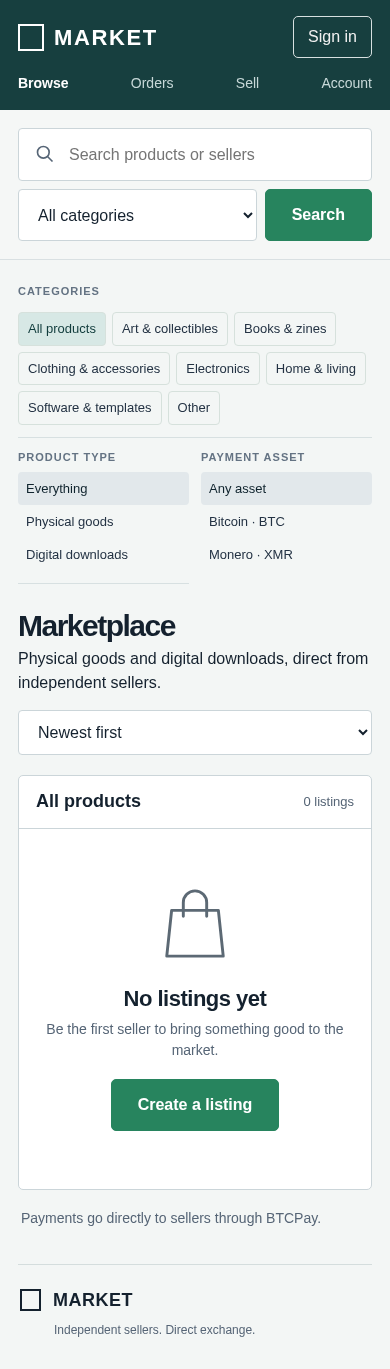
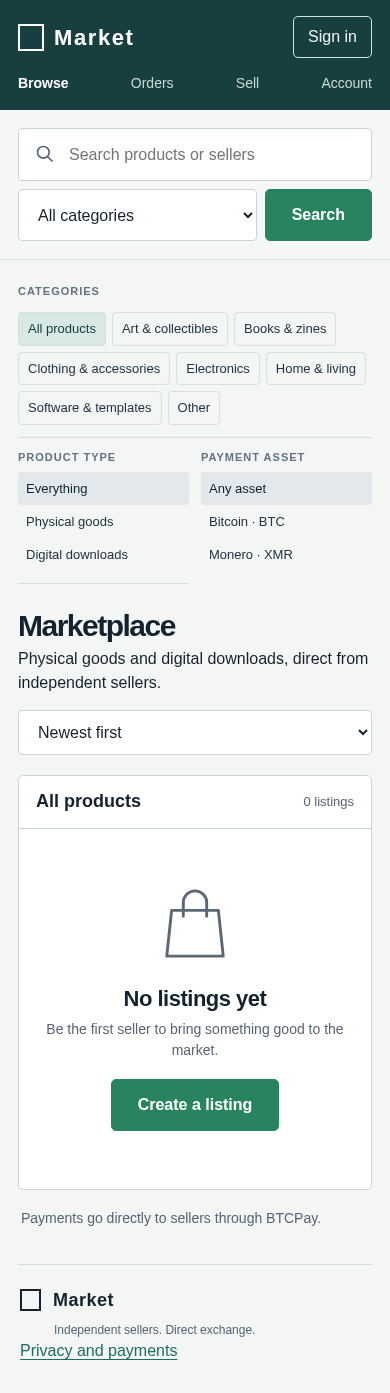
Verify final Market deployment over Tor and refresh screenshots

diff --git a/docs/VERIFICATION.md b/docs/VERIFICATION.md
@@ -1,33 +1,33 @@
 # Verification record
 
-Checks span September 16 and 17, 2026, Pacific time.
-
-The latest source adds private field encryption, invoice attempt recovery, the privacy page and Market branding. After workspace permissions changed, Docker access was denied. Those final changes are therefore not yet installed in the running onion containers. Run `Start Marketplace.cmd` locally to rebuild them. Saved browser images show the earlier deployed catalog, before the casing and privacy footer changes.
+Verified September 17, 2026, Pacific time.
 
 ## Automated checks
 
-`pnpm test`: 12 passing tests. Integration uses real Express endpoints, SQLite, authentication, uploads, moderation, orders, stock reservation, exact amounts, messaging, refund recording, reviews and restart persistence. Strangers and unrelated administrators cannot access orders; unpaid orders cannot download products. ETH and USDT are rejected.
+`pnpm test`: all 12 tests passed using the normal test runner. Integration uses real Express endpoints, SQLite, authentication, uploads, moderation, orders, stock reservation, exact amounts, messaging, refund recording, reviews and restart persistence. Strangers and unrelated administrators cannot access orders; unpaid orders cannot download products. ETH and USDT are rejected.
 
 Payment transport fixtures cover payloads, identity and amount matching, lost response recovery, read failure retries, settlement, manual marking, partial payments, expiry and changed configuration. They are not proof of a working external BTCPay installation.
 
 Private field tests cover authenticated encryption, random ciphertext, incorrect contexts, tampering, key persistence, legacy migration, missing key failure, encrypted database contents and authorized response decryption.
 
-`pnpm build` passed. `pnpm audit --prod` reported no known vulnerabilities at check time. This is an advisory check, not a security audit.
+`pnpm build` passed for the latest Market branding and privacy page. `pnpm audit --prod` reported no known vulnerabilities. This is a dependency advisory check, not a security audit.
 
-After the permission change, the normal test runner and Vite could not spawn subprocesses (`EPERM`). Running Node's supported `--test-isolation=none` mode verified all 12 latest tests successfully within the restricted workspace. The earlier build passed before the final frontend branding/privacy changes. The prepared GitHub workflow will check the final frontend once the source is uploaded; no remote CI run is claimed.
+## Live deployment
 
-## GitHub handoff
+The final source was rebuilt using `docker compose up --build -d`. The app is healthy. Its deployed frontend asset is `index-DczxX7qn.js`. Private field encryption is active; the generated key has mode 600. No BTCPay configuration is present. Existing service identity and persistent volumes were retained.
 
-The repository was created and renamed to `agammann/Market`; its private visibility was verified in GitHub. Source is committed locally. Upload was blocked: Git returned `SEC_E_NO_CREDENTIALS` under the restricted session, and GitHub mutation tools required approval unavailable under the session's policy. The remote repository currently has only its initial README. Open `Publish Source.cmd` in a normal terminal with GitHub Git credentials available to push the committed source. It does not add or commit untracked runtime files.
+Docker publishes no host ports. The app's only attached network is internal. Tor provides the onion entry point. A temporary Chromium QA container loaded the actual onion site through Tor and checked the Market browser title, privacy page, catalog, product filter/reset, invalid sign in response and protected seller route redirection. Desktop 1536 by 1024 and mobile 390 by 844 passed without page errors or horizontal overflow. Observed page requests stayed on the marketplace onion host. No customer or payment data was used.
 
-## Live checks
+Updated desktop and mobile screenshots are in `design/`. Both were visually compared with the generated reference. Market casing and the privacy footer link are intentional additions. The temporary browser container was automatically removed when checks completed. No temporary SOCKS proxy remains.
 
-Docker Linux images built and app and Tor containers started. App health passed. Tor bootstrapped fully. No host ports were published. The app's only network is internal. A health request through Tor to the actual onion address succeeded.
+The Windows session initially blocked Docker and some subprocesses. The user subsequently enabled access; the normal tests, build, deployment and onion browser checks above succeeded afterward. The former deployment blocker is resolved.
 
-An isolated Chromium browser in a temporary QA container loaded the live onion service through Tor. Desktop 1536 by 1024 and mobile 390 by 844 were inspected. Filtering/reset, invalid sign in feedback and protected seller route redirection passed. No page errors or horizontal overflow were detected. Observed page requests stayed on the marketplace onion origin. No real customer or payment data was used.
+## Private source publication
 
-Temporary QA containers and the temporary loopback SOCKS test proxy were removed. Brave was not verified through automation because launching it was blocked by automatic approval policy. The address can be opened manually in Brave's Tor window.
+The repository destination is `agammann/Market`, with private visibility verified through GitHub. Commits use the GitHub noreply address. The source tree excludes runtime data, wallet configuration, keys and the actual onion hostname. The GitHub Actions workflow checks installation, the 12 tests and frontend build on pushes to main. Remote commit and workflow status must be read back after publication; local results do not stand in for remote CI.
 
-## Remaining verification boundaries
+## Remaining boundaries
 
-No live BTCPay account was connected or cryptocurrency sent. There is no cloud deployment, independent security audit, volume load test, no JavaScript mode, automatic retention deletion, escrow or automatic refund transfer. Seller payment instances and wallet policies require separate checks before real orders.
+No live BTCPay account is connected and no cryptocurrency was sent. There is no cloud deployment, independent security audit, volume load test, no JavaScript mode, automatic retention deletion, escrow or automatic refund transfer. Seller payment instances require separate checks before real orders. The user's existing personal BTCPay instance was not used.
+
+The onion service was verified in an isolated test browser. Launching the user's Brave browser was previously blocked by automatic approval policy, so no Brave specific verification is claimed. The actual onion address can be opened manually in a Brave Tor window. The computer must remain awake with Docker running for the service to stay available.

diff --git a/README.md b/README.md
@@ -4,7 +4,7 @@ A private source marketplace for independent sellers of physical goods and digit
 
 ![Catalog](design/catalog-rendered.png)
 
-Private source repository: [agammann/Market](https://github.com/agammann/Market). The image shows the previously deployed catalog; current source uses Market casing and adds a privacy footer link. Run the start command below to deploy the latest source.
+Private source repository: [agammann/Market](https://github.com/agammann/Market). The image shows the current deployment, verified through Tor. Run the start command below to build or update your own deployment.
 
 ## Working functionality
 
